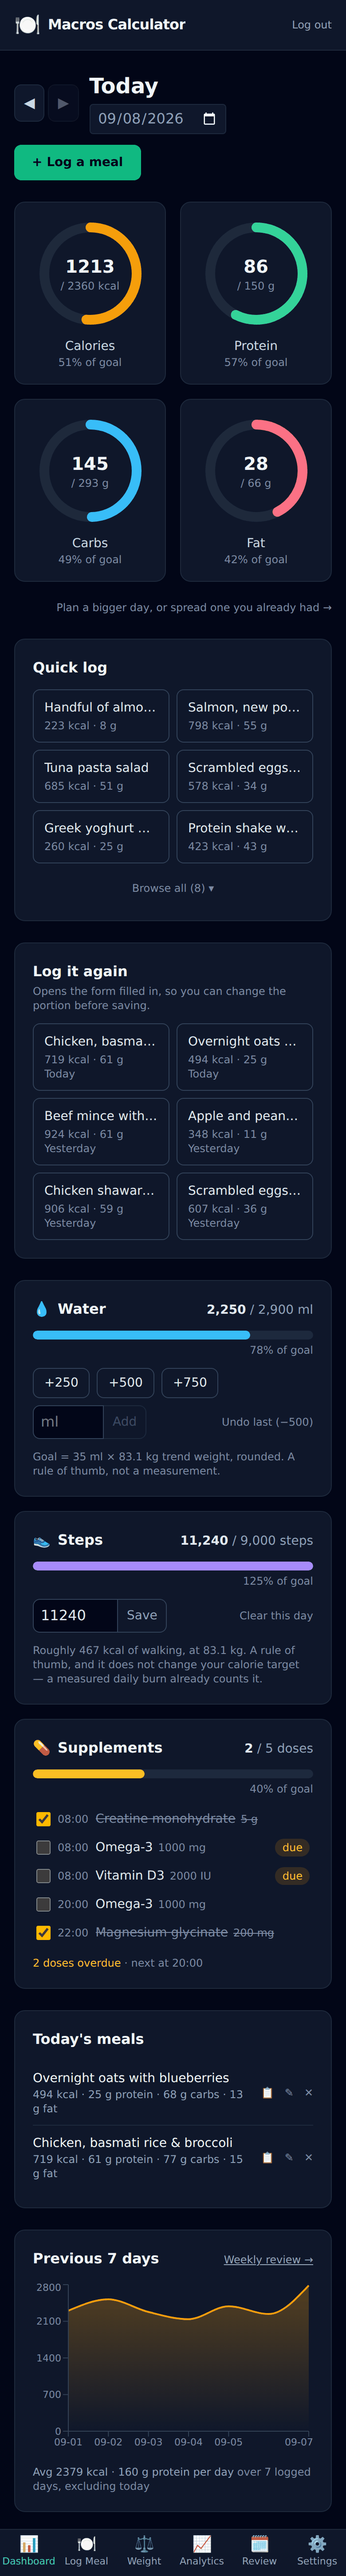
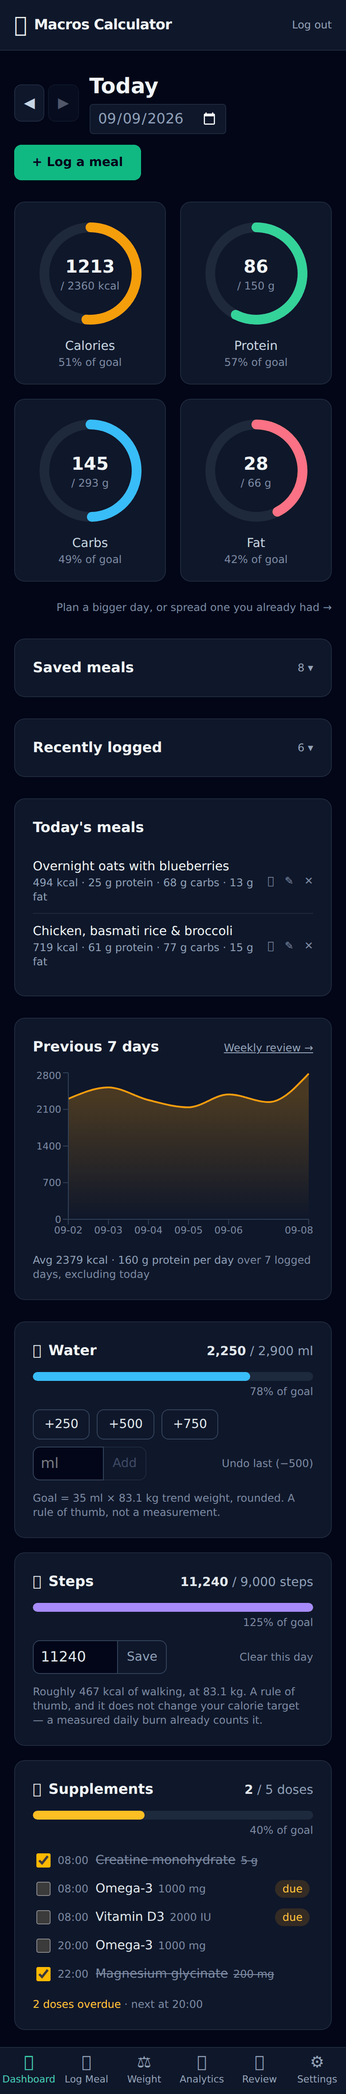
docs: cover the dashboard's new first screen
Feature list, the dashboard caption (which enumerated the old order under a
new picture), both screenshots, a release note, and the ?demote_date= row.
Path count corrected 53 -> 54, stale since /api/meals/recent shipped.

diff --git a/backend/app/announcements.py b/backend/app/announcements.py
@@ -29,6 +29,31 @@ STATUS_BANNER_ENV = "STATUS_BANNER"
 # pop-up becoming a dismiss-three-reload-repeat gauntlet.
 ANNOUNCEMENTS: list[Announcement] = [
     Announcement(
+        id="2026-09-09-dashboard-first-screen",
+        date="2026-09-09",
+        title="Today's meals are back on the first screen",
+        body=(
+            "**On a phone the dashboard was asking for about five screens of "
+            "scrolling before it would show you what you had eaten.** Two "
+            "cards of shortcuts and three progress bars sat between your rings "
+            "and your meal list. The meal list now sits directly under the "
+            "rings, and the trackers moved below it.\n\n"
+            "**The two shortcut cards start folded.** One tap opens either, and "
+            "the choice is remembered on that device — so if you use them "
+            "daily, open them once and they stay open.\n\n"
+            "**“Quick log” is now “Saved meals”, and "
+            "“Log it again” is now “Recently logged”.** "
+            "They always did different things — one holds the meals you "
+            "saved on purpose, the other offers what you actually logged "
+            "recently — but the old names did not say which was which, and "
+            "Settings had been calling the first one Saved meals all along.\n\n"
+            "**Recently logged no longer leads with meals you have already had "
+            "today.** It was offering six things that were sitting in your meal "
+            "list further down the same page. They are still there if you want "
+            "them twice — just after the ones you have not had yet."
+        ),
+    ),
+    Announcement(
         id="2026-09-08-log-it-again",
         date="2026-09-08",
         title="Log a meal you have eaten before, without typing it again",

diff --git a/README.md b/README.md
@@ -32,12 +32,12 @@ Log meals by typing an ingredient name — macros auto-fill from your personal *
 
 ### 📊 Dashboard
 - Daily **progress rings** for each tracked macro vs. your goals
-- **Quick log** — your saved meals as one-tap tiles, most recently used first, folded to six with the rest a tap away
+- Today's meal list with inline edit and delete, directly under the rings — it is what the page is for, and it used to sit below two shortcut cards and three progress bars, which on a phone put it about five screens down
+- **Saved meals** — your saved meals as one-tap tiles, most recently used first, folded to six with the rest a tap away. Collapsed by default, one tap to open, and the choice is remembered per device
 - **Water tracker** with configurable quick-add buttons and a goal derived from your trend weight — shown with the arithmetic, not just the answer
 - **Steps tracker**, typed in by hand or imported from a `date,steps` CSV — no phone or watch sync is possible in a web app, and the UI says so rather than implying one. Set a goal or don't; with none set the card shows the count alone
 - **Supplement tracker** — a list with a dose and the times of day you take it, ticked off from the dashboard. Reminders are in-app only, deliberately: push on Android needs Google Play Services and scheduled local notifications need a browser API nobody shipped, so the card says a dose is overdue while you have it open and never pretends it will reach your phone. Pausing keeps the history; deleting does not
 - **Calorie planning** — move calories between days without moving the week. Plan a bigger day and fund it from the days around it, or spread a day that already ran over across the days ahead (and the mirror when bulking and under). Three things are deliberate: it is **not a debt** — measured expenditure already absorbs one large day as a slightly slower week, so this only decides where it lands; **nothing prompts you** — one standing link under the calorie ring, present whether the day went well or badly, because an app that asks after every overshoot is a different kind of app; and **you pick the days**, with the server only refusing a spread that would take one below a safe calorie floor, naming the day rather than quietly shaving less than you asked. Protein never moves — carbohydrate and fat absorb the difference
-- Today's meal list with inline edit and delete
 - 7-day calorie trend sparkline
 
 ### 🤖 AI meal analysis
@@ -60,7 +60,7 @@ Log meals by typing an ingredient name — macros auto-fill from your personal *
 - **Every saved food is comparable, whatever it was saved against.** Macros are stored per the food's own serving size, which is what the packet says and useless for comparing two of them — 108 kcal per 90 g and 70 kcal per 50 g are the same food twice, and nothing about those two lines says so. Any row that is not already per 100 g now shows what it works out to, and a **Per 100 g** button rewrites it that way for good: it previews the figures first, and it **keeps the Open Food Facts badge**, because a rescale is the same claim in different units and corrects nothing
 - **It tells you when you have saved the same food twice.** The library fills itself up on its own — every Open Food Facts pick is cached, every ticked ingredient saved — so the same thing arrives under names nobody chose to make match. A pair is flagged only when the names overlap **and** the per-100 g calories and protein are close, because names alone would call "chicken breast" and "chicken thigh" duplicates. And it argues rather than acts: both rows are put side by side in the same units so you can see why, every delete is yours, and "not a duplicate" makes it stop asking
 - **Saved meals**: store a meal you eat often and re-log it in one tap from the dashboard
-- **Log it again**: the dashboard offers the meals you actually logged recently, so anything you have eaten before can be re-logged without retyping it. It is the counterpart to saved meals rather than a duplicate of them — a saved meal had to be stored in advance, while this needs no forethought at all, which is the case it exists for. The list is one entry per meal *name*, carrying the most recent version of it and the day that came from, so logging “Breakfast” every morning does not fill the card with six Breakfasts. Tapping one opens the log form filled in, so the portion is still yours to change before it is saved
+- **Recently logged**: the dashboard offers the meals you actually logged recently, so anything you have eaten before can be re-logged without retyping it. It is the counterpart to saved meals rather than a duplicate of them — a saved meal had to be stored in advance, while this needs no forethought at all, which is the case it exists for. The list is one entry per meal *name*, carrying the most recent version of it and the day that came from, so logging “Breakfast” every morning does not fill the card with six Breakfasts. Tapping one opens the log form filled in, so the portion is still yours to change before it is saved. Meals you have already logged on the day you are looking at are moved to the end of the list rather than dropped from it — you can still have the same thing twice, but the card leads with what you have not had yet
 - **Share a meal by code**: turn a meal or a saved template into a short code, hand it to someone, and they get an **editable copy in their own account**. The code is a self-contained encoded payload — there is no shared row, no invite, nothing to revoke, and no account id inside it, so per-user isolation is untouched by the feature existing
 - Single- or multi-ingredient meals with live-updating totals as you type
 
@@ -118,7 +118,7 @@ Every screen at both widths. Each image is one long capture of the **entire page
 
 ### Dashboard
 
-Rings against your goals, one-tap quick log, the meals you logged recently ready to log again, the three daily trackers, today's meals, and the seven-day trend.
+Rings against your goals, then today's meals — the two things the page exists for, both on the first screen. The saved-meal and recently-logged shortcuts fold away above them, and the three daily trackers and the seven-day trend follow below.
 
 <table>
 <tr><th align="center">Desktop</th><th align="center">Phone</th></tr>
@@ -594,7 +594,7 @@ to anything else. That failure looks like a network error and never reaches the 
 
 ## 🔌 API overview
 
-53 paths. All of them require an `Authorization: Bearer <token>` header and operate
+54 paths. All of them require an `Authorization: Bearer <token>` header and operate
 only on the caller's data, except these public ones: `/api/health`,
 `/api/announcements`, `/api/auth/signup|login`, and
 `/api/auth/forgot-password|reset-password`.
@@ -616,7 +616,7 @@ only on the caller's data, except these public ones: `/api/health`,
 | Method | Endpoint | Description |
 |---|---|---|
 | GET/POST | `/api/meals` | List (optionally by `?date=`) / create meals |
-| GET | `/api/meals/recent` | The most recent meal under each distinct name, for re-logging |
+| GET | `/api/meals/recent` | The most recent meal under each distinct name, for re-logging. `?demote_date=` sorts names already logged on that day to the end |
 | PUT/DELETE | `/api/meals/{id}` | Edit or delete a meal |
 | GET/POST | `/api/meal-templates` | List saved meals / save one (upsert by name) |
 | DELETE | `/api/meal-templates/{id}` | Delete a saved meal template |
